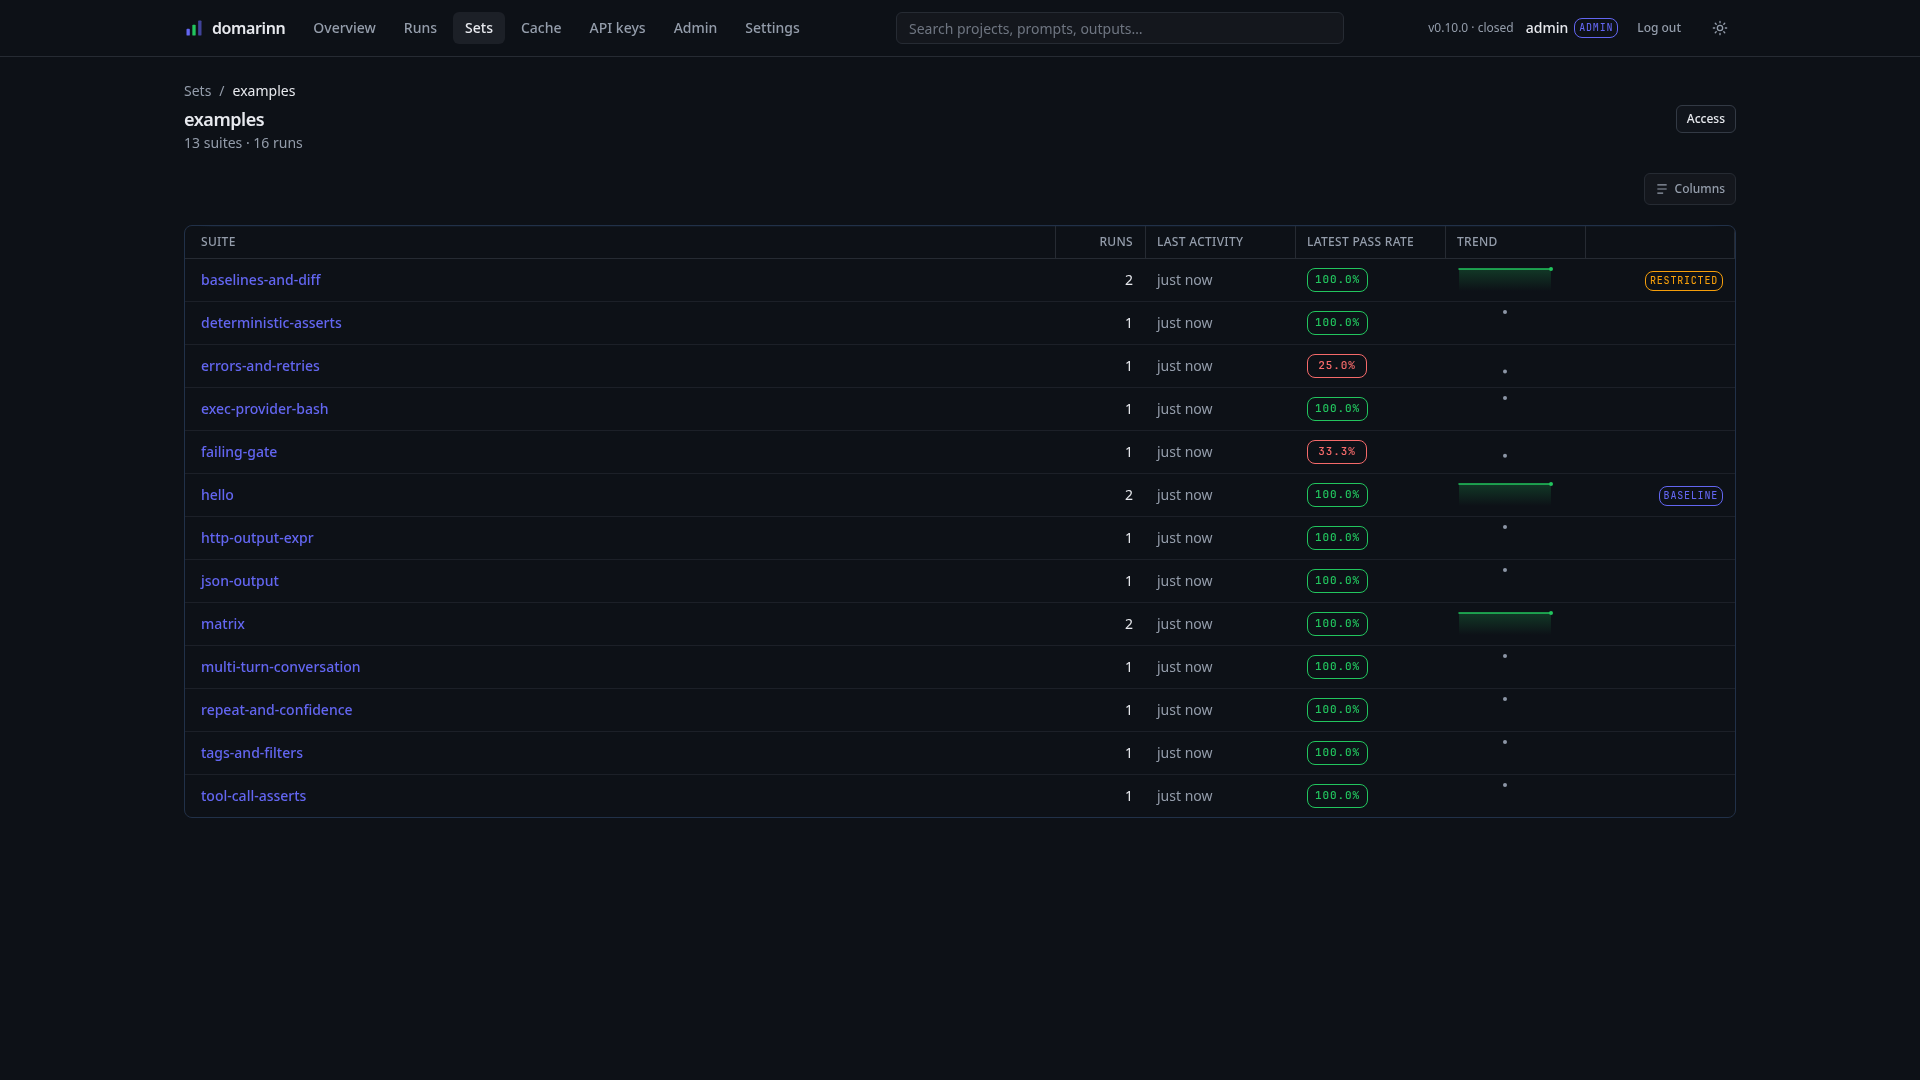
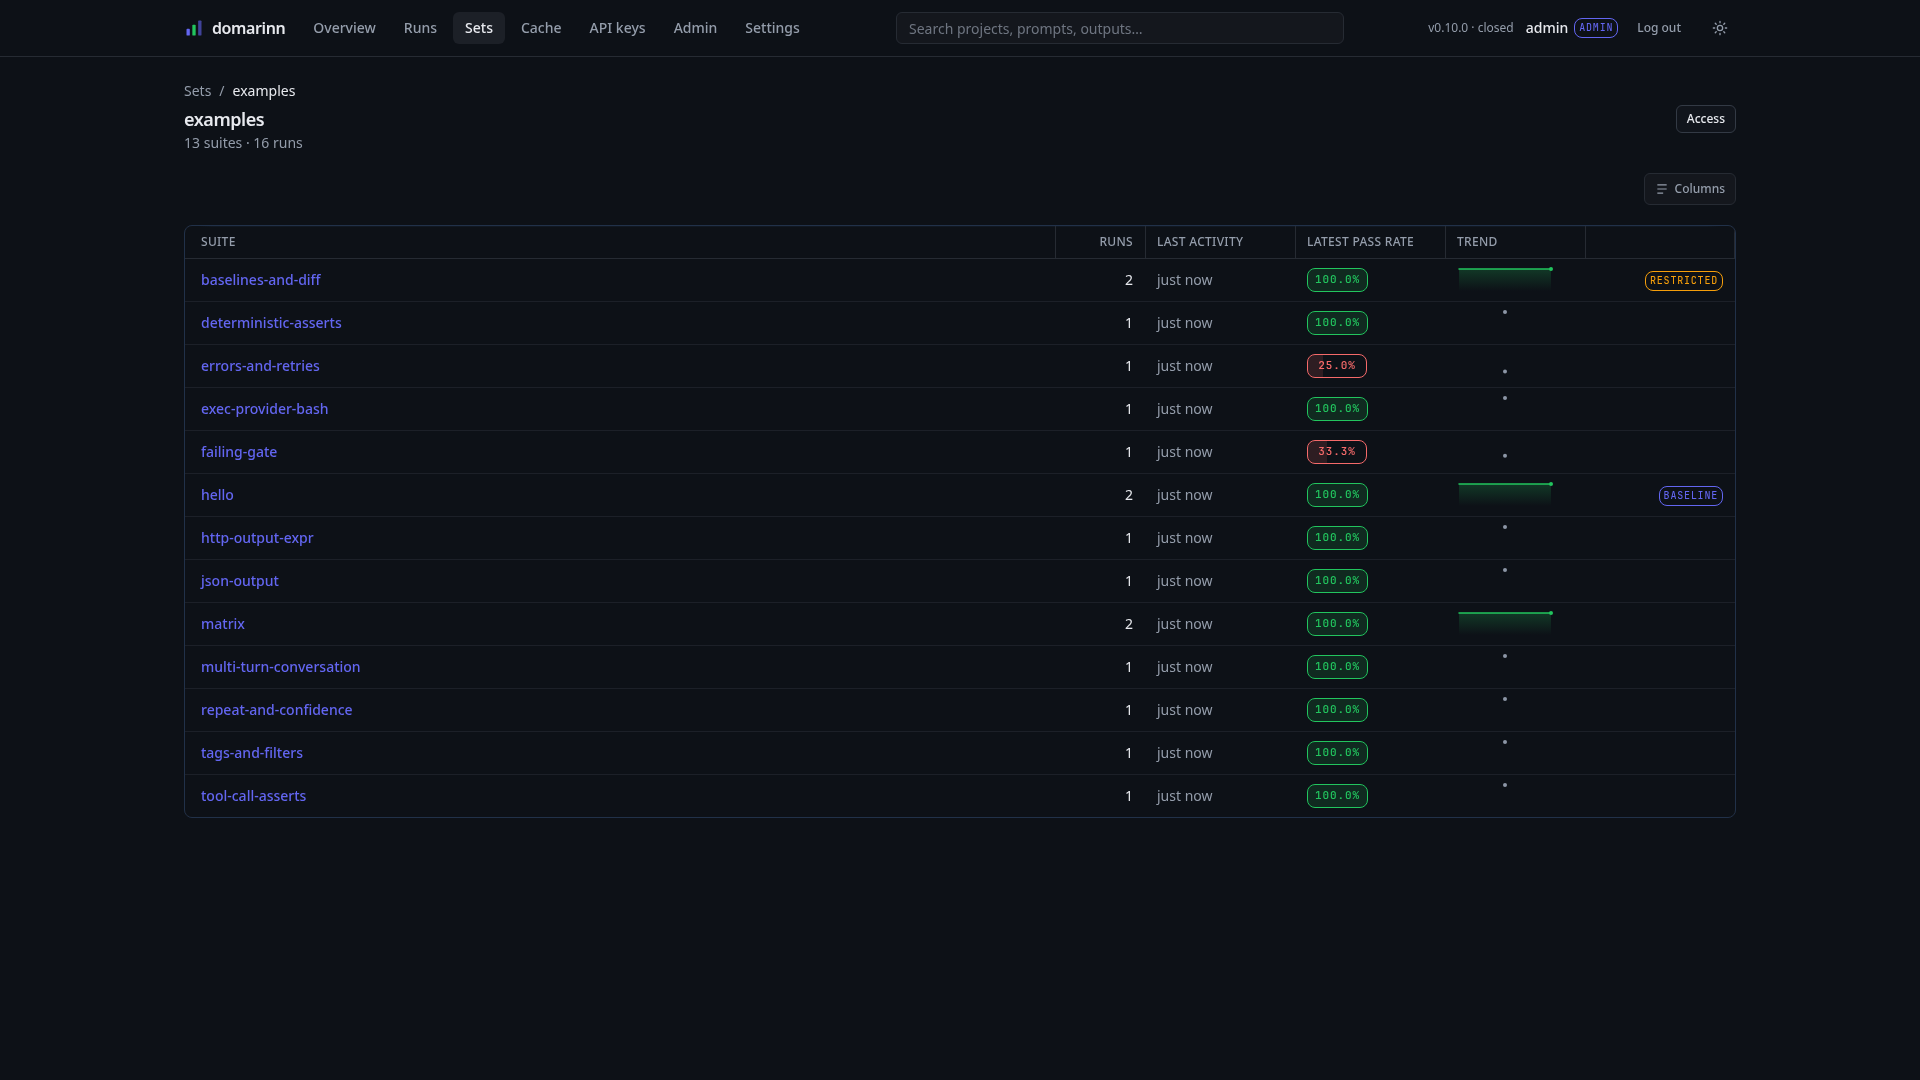
feat(web): fill the pass-rate pill to its own percentage again
The pass-rate badge used to carry a faint bar behind the number, filled to
the rate — so a column of them read as a chart before you read any digits.
Adopting the outline pill recipe dropped it, leaving only the threshold
tone: everything from 80% to 94% looked identical.

Bring the meter back on top of the outline recipe. The width is the value,
the fill takes the same hue the border and label already use, and it stays
at 14% opacity so the percentage is still the first thing read.

Two positioning details that are easy to lose: the pill needs
`overflow-hidden` or the bar escapes the corner radius, and the label needs
`relative` or the absolutely-positioned bar paints over it — positioned
boxes cover static in-flow content whatever the DOM order.

A null rate draws no bar. That state means "no runs yet" rather than zero
percent, and a full-width empty pill would read as a hard failure.

Tests pin the width against the rate rather than just asserting a bar
exists; a meter stuck at a constant width would be worse than none.

Screenshots: the six routes that render the badge. Overview renders one
too, but every suite on the seeded server is still waiting for its first
CI run, so there is no rate to draw there.

Changed region(s): [[0.6562, 0.4278, 0.7188, 0.7639], [0.6562, 0.3667, 0.7188, 0.4278], [0.6562, 0.2444, 0.7188, 0.3056]]

diff --git a/web/src/components/Badges.test.tsx b/web/src/components/Badges.test.tsx
@@ -22,13 +22,43 @@ describe("StatusBadge", () => {
 });
 
 describe("PassRateBadge", () => {
-  it("shows the computed pass percentage as a transparent outline", () => {
-    const { container } = render(<PassRateBadge pass={95} fail={4} error={1} />);
+  it("shows the computed pass percentage in the matching outline tone", () => {
+    render(<PassRateBadge pass={95} fail={4} error={1} />);
     expect(screen.getByText("95.0%").parentElement).toHaveClass(
       "border-pass",
       "text-pass",
     );
-    expect(container.querySelector(".absolute")).toBeNull();
+  });
+
+  it.each([
+    [1, "100%"],
+    [0.732, "73.2%"],
+    [0, "0%"],
+  ] as const)("fills the meter to the rate (%s)", (rate, width) => {
+    // The width IS the value — the badge reads as a bar as well as a number,
+    // so a meter stuck at a constant width would be worse than none at all.
+    const { container } = render(<RateBadge rate={rate} />);
+    const meter = container.querySelector<HTMLElement>(".absolute");
+    expect(meter).not.toBeNull();
+    expect(meter!.style.width).toBe(width);
+    expect(meter).toHaveAttribute("aria-hidden");
+  });
+
+  it("draws no fill for an unknown rate", () => {
+    // `null` is "no runs yet", not "zero percent" — the tone already goes
+    // neutral, and a zero-width bar keeps it from reading as a hard failure.
+    const { container } = render(<RateBadge rate={null} />);
+    expect(container.querySelector<HTMLElement>(".absolute")!.style.width).toBe("0%");
+  });
+
+  it("keeps the meter behind the label and clipped to the pill", () => {
+    const { container } = render(<RateBadge rate={0.5} />);
+    const badge = screen.getByText("50.0%").parentElement!;
+    expect(badge).toHaveClass("relative", "overflow-hidden");
+    // Positioned boxes paint over static in-flow content whatever the DOM
+    // order, so the label has to be positioned too or the meter covers it.
+    expect(screen.getByText("50.0%")).toHaveClass("relative");
+    expect(container.querySelector(".absolute")).toBeInTheDocument();
   });
 
   it.each([

diff --git a/web/src/components/PassRateBadge.tsx b/web/src/components/PassRateBadge.tsx
@@ -33,6 +33,18 @@ export function PassRateBadge({
  * The run-set browser is the one such caller: its `latest_pass_rate` is the
  * newest run's, while the counts beside it are the set's lifetime totals.
  */
+/** The meter fill, in the same hue the outline is already using. */
+const METER: Record<OutlineTone, string> = {
+  neutral: "bg-skip",
+  info: "bg-info",
+  accent: "bg-accent",
+  pass: "bg-pass",
+  fail: "bg-fail",
+  error: "bg-error",
+  amber: "bg-amber",
+  skip: "bg-skip",
+};
+
 export function RateBadge({
   rate,
   title,
@@ -50,13 +62,27 @@ export function RateBadge({
     <span
       className={cn(
         OUTLINE_LABEL_BASE,
-        "min-w-[3.75rem] justify-center px-[7px] py-[3px] text-[11px] font-semibold tabular-nums",
+        // `relative` + `overflow-hidden` for the meter: it is absolutely
+        // positioned against this box and clipped to the pill's corner radius.
+        "relative min-w-[3.75rem] justify-center overflow-hidden px-[7px] py-[3px] text-[11px] font-semibold tabular-nums",
         OUTLINE_LABEL_TONE[tone],
         className,
       )}
       title={title}
     >
-      <span>{formatPercent(rate)}</span>
+      {/* The rate, read as a bar as well as a number — the width is the value.
+          Kept faint enough that the percentage stays the thing you read first,
+          and the outline recipe's own fill is transparent, so this is the only
+          thing painting inside the border. */}
+      <span
+        className={cn("absolute inset-y-0 left-0 opacity-[0.14]", METER[tone])}
+        style={{ width: `${pct}%` }}
+        aria-hidden
+      />
+      {/* `relative` so the label paints above the meter: both sit in this
+          stacking context, and a positioned box otherwise covers static
+          in-flow content whatever the DOM order. */}
+      <span className="relative">{formatPercent(rate)}</span>
     </span>
   );
 }
